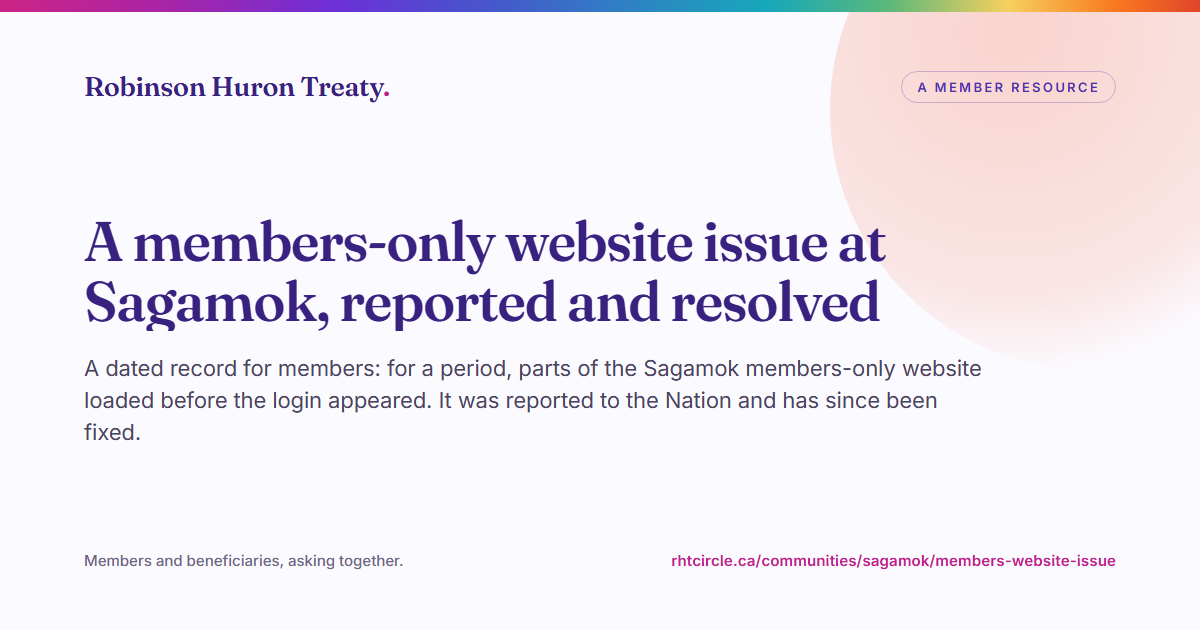
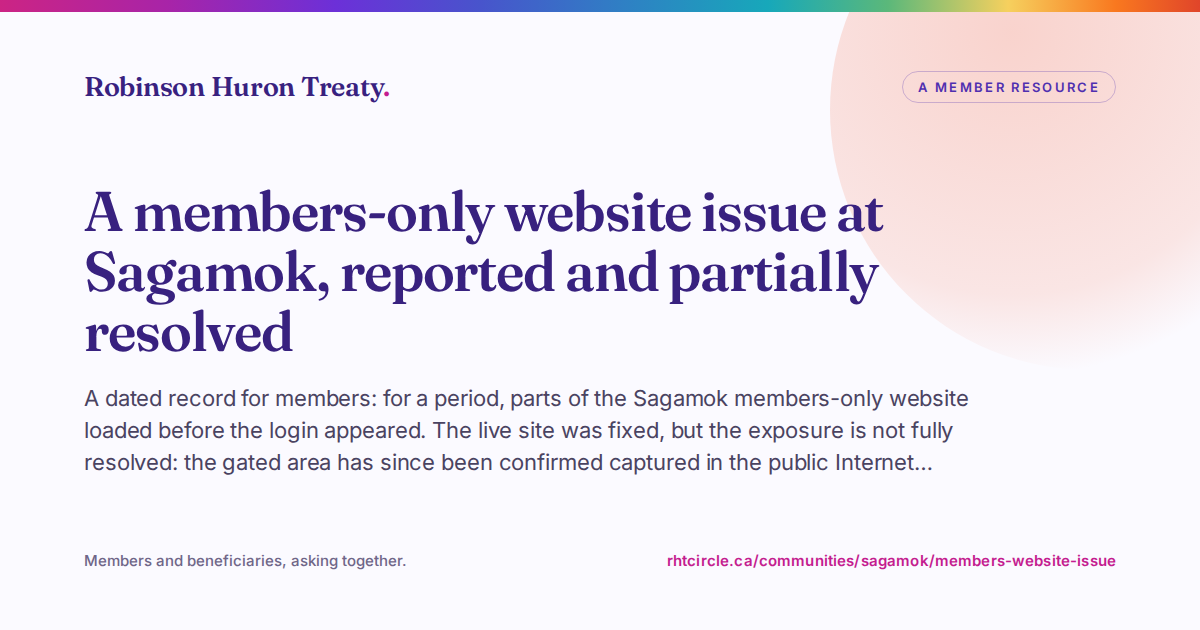
Sagamok IT accountability: new member's record page, mark portal issue partially resolved
Replace the placeholder it-accountability page (a standalone "call for
resignation" statement) with the member's-record version from
RHT/communities/sagamok-it-accountability.md: same reading template as
members-website-issue (summary box, timeline, status callout), sourced
facts and dates, names offices and roles rather than individuals, and
states plainly what is being asked of Council (the IT Director's
resignation, informing the membership now, and an independent review).

Update members-website-issue from "resolved" to "partially resolved"
in the title, H1, and meta description: the live site fix (June 3,
2026) stands, but the gated members area, including confidential
documents and council minutes, is now confirmed captured in the public
Internet Archive, permanently and beyond recall, and members have not
yet been informed. Updates the "why a fix is not the whole story"
section accordingly and cross-links to the new accountability page.

Also updates the hub's transparency card copy (CommunityHub.php) for
both pages, adds it-accountability to the chat-corpus ingest list
(a pre-existing gap versus its sibling Sagamok pages), and regenerates
the two affected OG social cards.

No member names, children's names, or personal details added; the
specifics stay in private correspondence only.

diff --git a/src/Content/CommunityHub.php b/src/Content/CommunityHub.php
@@ -62,10 +62,10 @@ final class CommunityHub
             ],
             [
                 'feature' => true,
-                'tag' => "A member's public statement",
-                'title' => 'A call for the resignation of the Director of IT and Communications',
-                'desc' => 'Two serious IT and data failures, raised properly and privately first, met with silence. A member is now asking publicly.',
-                'go' => 'Read the statement',
+                'tag' => "A member's record",
+                'title' => 'IT accountability: what is being asked of Council',
+                'desc' => 'The gated members portal, once left open, is now confirmed captured in the public Internet Archive, permanently. What members were told, the pattern, and what is being asked of Council.',
+                'go' => 'Read the record',
                 'href' => '/communities/sagamok/it-accountability',
             ],
             [
@@ -91,9 +91,9 @@ final class CommunityHub
                 'href' => '/communities/sagamok/how-its-organized',
             ],
             [
-                'tag' => 'Reported and resolved',
+                'tag' => 'Reported, partially resolved',
                 'title' => 'The members website issue',
-                'desc' => 'A responsible disclosure of a members-portal exposure, reported and since resolved, kept here as a record.',
+                'desc' => 'A responsible disclosure of a members-portal exposure. The live site was fixed, but the gated area is confirmed captured in the public Internet Archive, permanently.',
                 'go' => 'Read what happened',
                 'href' => '/communities/sagamok/members-website-issue',
             ],

diff --git a/src/Provider/AppServiceProvider.php b/src/Provider/AppServiceProvider.php
@@ -268,9 +268,9 @@ final class AppServiceProvider extends ServiceProvider implements ProvidesRolesI
             'sagamok-members-website-issue' => ['/communities/sagamok/members-website-issue', 'pages/communities/sagamok/members-website-issue.html.twig'],
             'sagamok-where-your-data-lives' => ['/communities/sagamok/where-your-data-lives', 'pages/communities/sagamok/where-your-data-lives.html.twig'],
             'sagamok-long-term-care' => ['/communities/sagamok/long-term-care', 'pages/communities/sagamok/long-term-care.html.twig'],
-            // A member's public statement (Russell Jones): a call for the
-            // resignation of the Director of IT and Communications. Content
-            // from the July 2026 site-cohesion-and-design-brief.
+            // A member's record (Russell Jones): the members-only portal
+            // exposure, its capture in the public Internet Archive, and what
+            // is being asked of Council. Companion to members-website-issue.
             'sagamok-it-accountability' => ['/communities/sagamok/it-accountability', 'pages/communities/sagamok/it-accountability.html.twig'],
             // Public-records kit: eleven member-compiled cards (image + ready
             // caption), built from public sources only, for members to copy

diff --git a/src/Command/IngestCommand.php b/src/Command/IngestCommand.php
@@ -64,6 +64,7 @@ final class IngestCommand
         '/communities/sagamok/awaiting-council' => 'pages/communities/sagamok/awaiting-council.html.twig',
         '/communities/sagamok/how-its-organized' => 'pages/communities/sagamok/how-its-organized.html.twig',
         '/communities/sagamok/members-website-issue' => 'pages/communities/sagamok/members-website-issue.html.twig',
+        '/communities/sagamok/it-accountability' => 'pages/communities/sagamok/it-accountability.html.twig',
         '/communities/sagamok/where-your-data-lives' => 'pages/communities/sagamok/where-your-data-lives.html.twig',
         '/communities/sagamok/long-term-care' => 'pages/communities/sagamok/long-term-care.html.twig',
         '/circle' => 'pages/circle/index.html.twig',